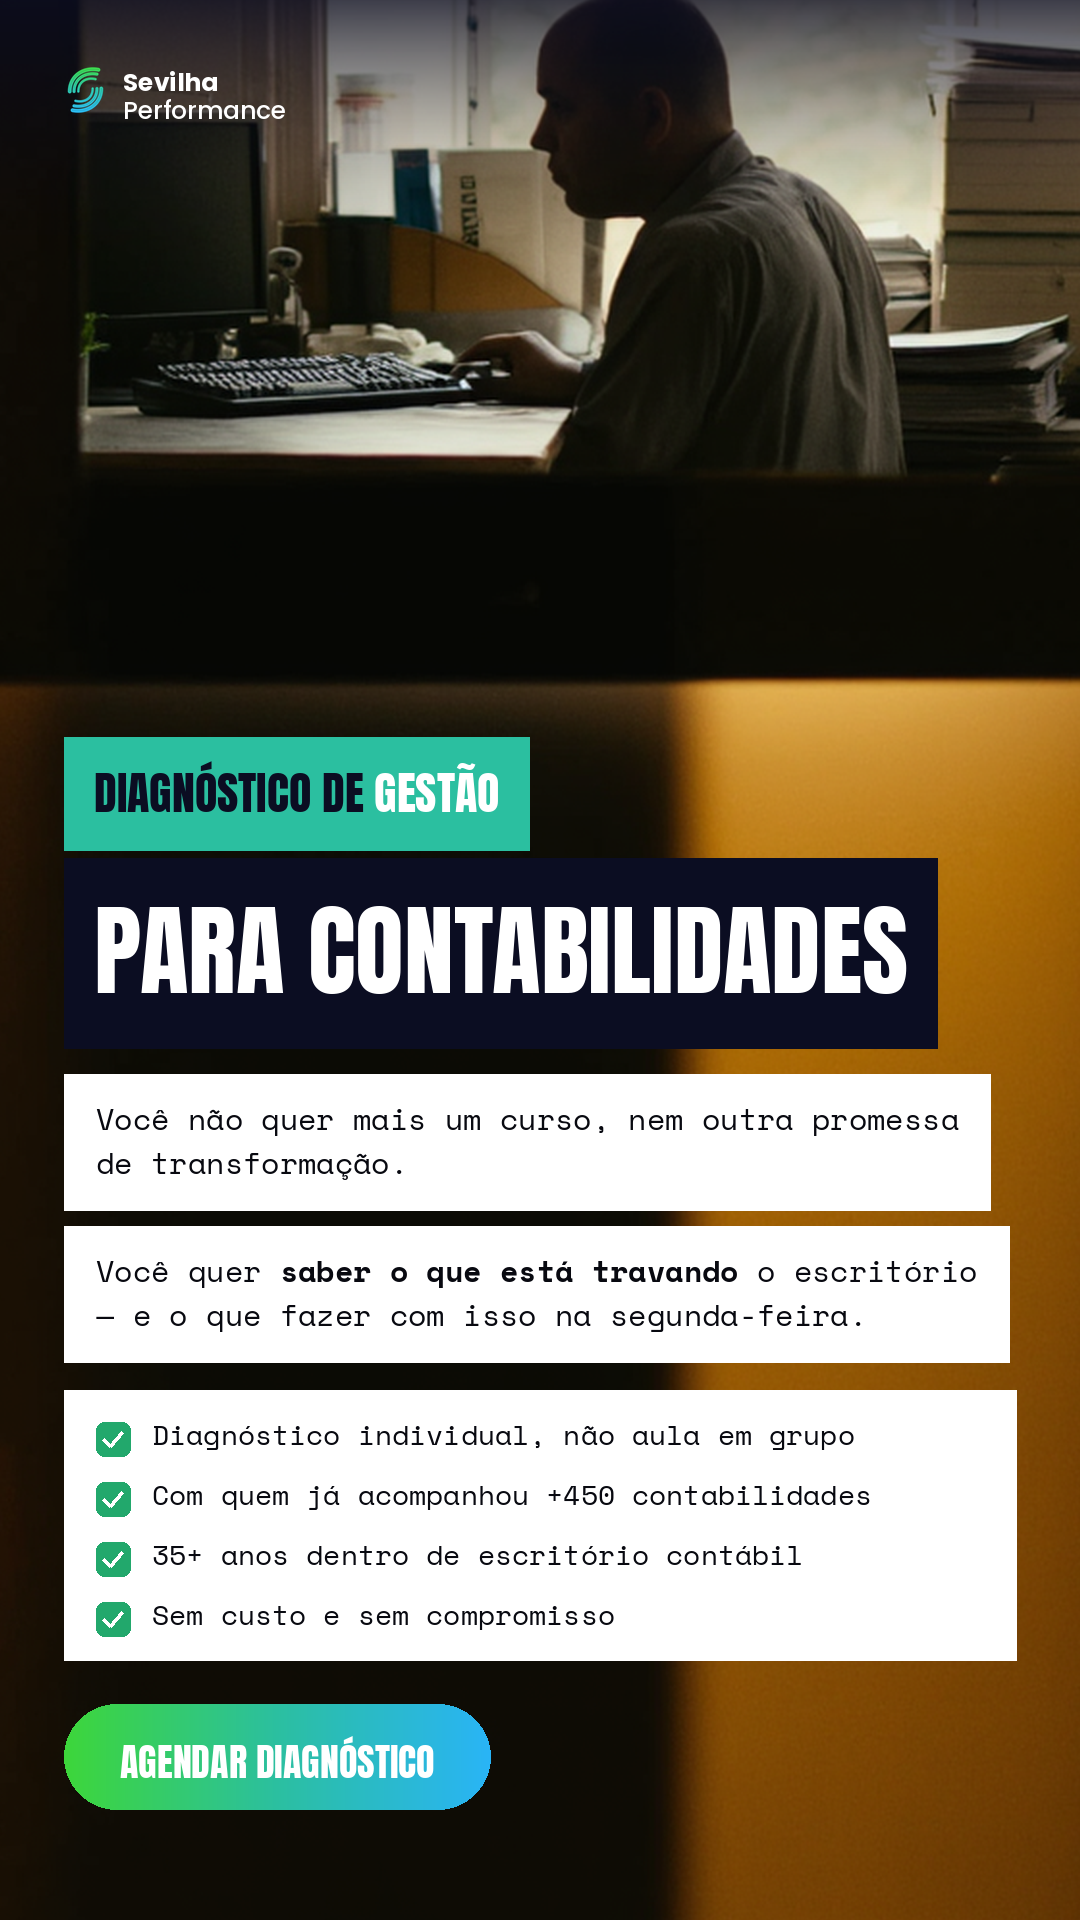
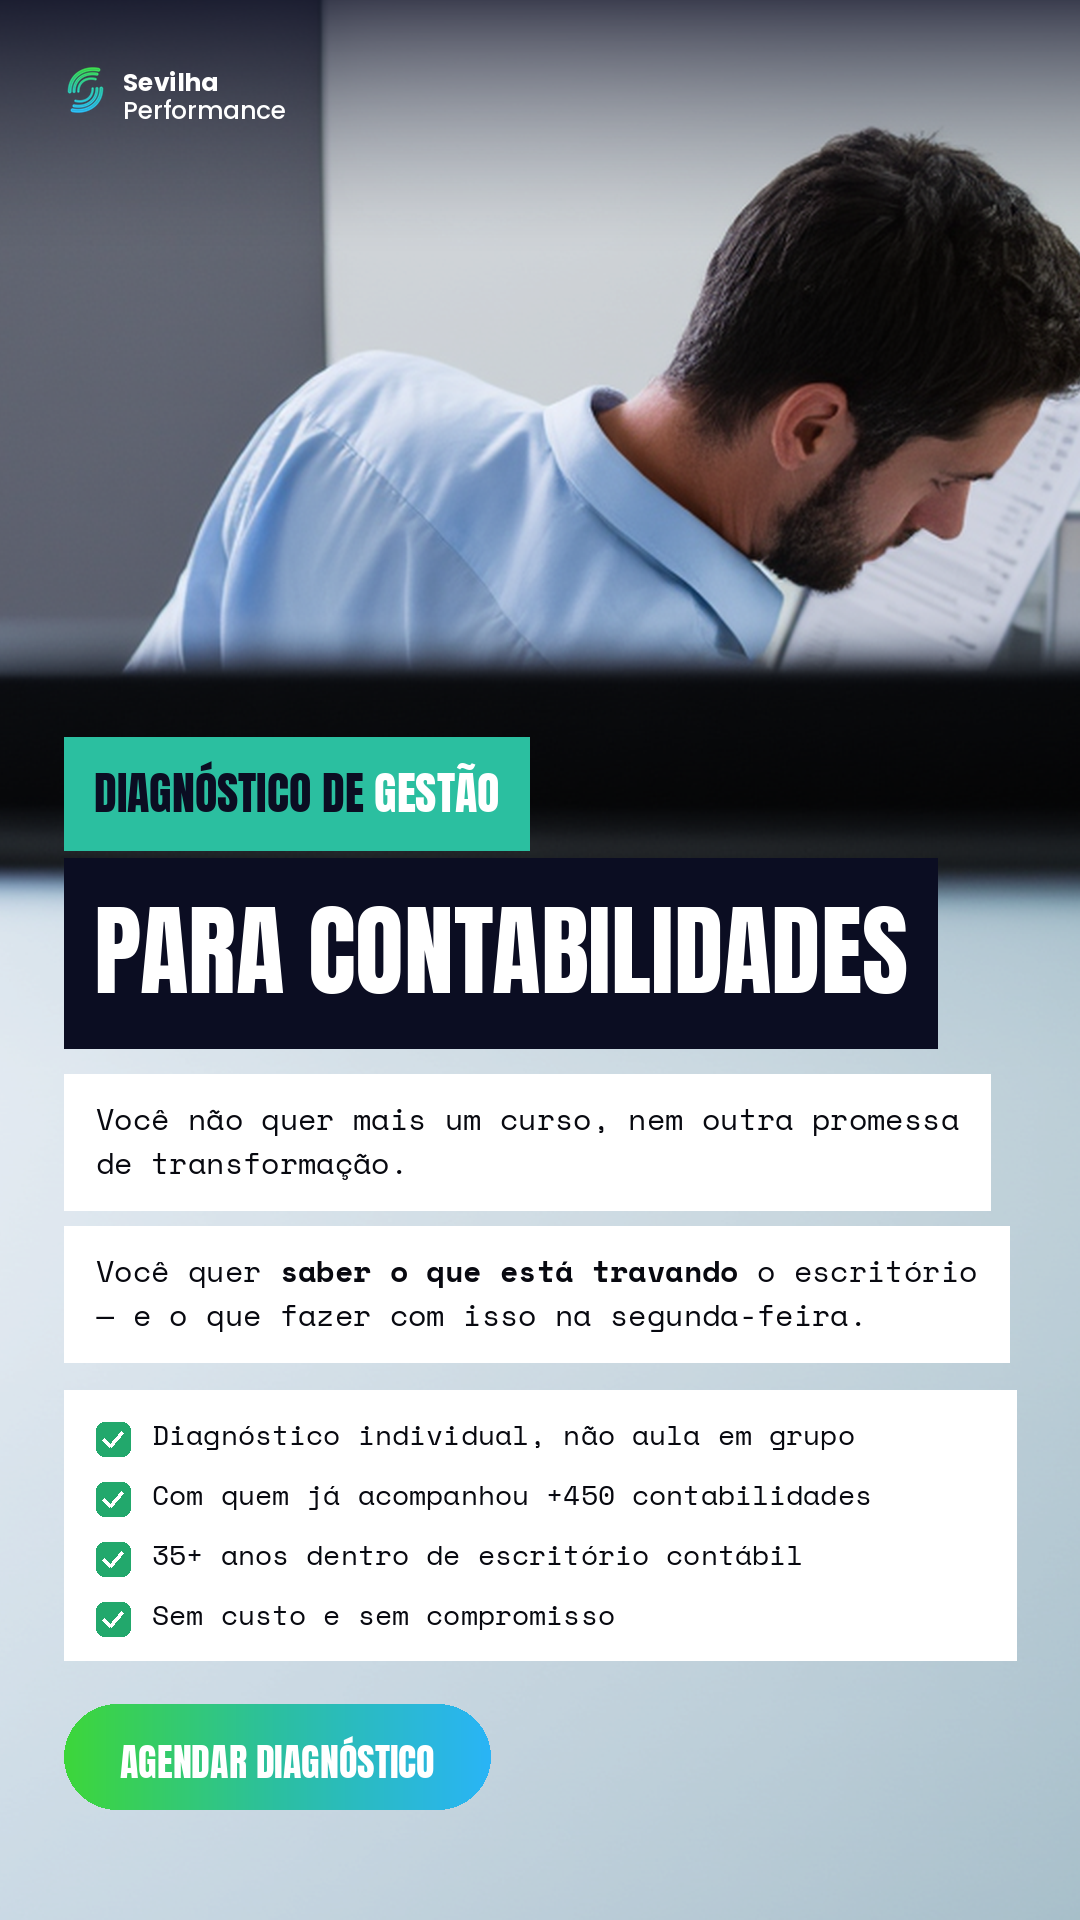
Refaz o plate do conceito 12: a foto de cima não segurava
A pilha de blocos ocupa os dois terços de baixo, então só o terço de cima da
foto aparece — e era justamente o pedaço pior do plate anterior: assunto escuro,
batente de porta cortando o quadro e um borrão âmbar no lugar do respiro.

Duas regras saíram daí, e valem para qualquer plate deste layout:

Fundo claro embaixo, não penumbra. O prompt anterior pedia "the lower two thirds
an uncluttered dimmer area". Não adianta reservar espaço escuro — o espaço já vai
ser coberto pelos blocos. O que serve ali é fundo claro e liso.

Nada na frente do assunto. "Seen from a three-quarter rear angle" numa sala
pequena fez o modelo enfiar batente de porta e móvel no primeiro plano.

As duas entraram na descrição do layout em LAYOUTS, para o gerador escrever o
prompt de plate já com elas, e o padrão de âncora do serviço subiu de 0.28 para
0.08 — o Kling entrega o assunto no meio do quadro se ninguém pedir o contrário.

Claude-Session: https://claude.ai/code/session_01RyMhWZjS6JzrucoHXrbyNV

diff --git a/api/compor.py b/api/compor.py
@@ -156,9 +156,10 @@ def montar(corpo):
             conceito.setdefault("formato", "9:16")
             conceito.setdefault("cta", "AGENDAR DIAGNÓSTICO")
             # A pilha come os dois terços de baixo; sem zoom o assunto da foto
-            # fica pequeno demais na faixa que sobra.
-            conceito.setdefault("zoom", 1.3)
-            conceito.setdefault("anchor_y", 0.28)
+            # fica pequeno demais na faixa que sobra, e sem subir a âncora o
+            # Kling entrega o assunto no meio do quadro, bem onde os blocos vão.
+            conceito.setdefault("zoom", 1.4)
+            conceito.setdefault("anchor_y", 0.08)
             return layouts.blocos(conceito, plate)
 
         formato = corpo.get("formato", "4:5")

diff --git a/criativos/sessao-estrategica/compor.py b/criativos/sessao-estrategica/compor.py
@@ -130,7 +130,9 @@ LAYOUTS = {
     "oferta": "foto em quadro cheio, tarja de público e valor em destaque — 9:16",
     "antes-depois": "duas colunas comparando, sem foto — 4:5",
     "blocos": "blocos opacos empilhados sobre a foto, corpo em monoespaçada e "
-              "checklist de entregáveis — 9:16",
+              "checklist de entregáveis — 9:16. O plate precisa do assunto no "
+              "terço de cima, fundo claro e liso embaixo (é onde os blocos "
+              "entram) e nada na frente do assunto",
     "nativo": "UI de app recriada (notas, whatsapp, lockscreen, busca) — 4:5",
 }
 

diff --git a/criativos/sessao-estrategica/oferta.py b/criativos/sessao-estrategica/oferta.py
@@ -98,7 +98,7 @@ PECAS = {
     "blocos": {
         "layout": "blocos",
         "formato": "9:16",
-        "zoom": 1.35, "anchor_y": 0.30,
+        "zoom": 1.45, "anchor_x": 0.55, "anchor_y": 0.06,
         "topo": "DIAGNÓSTICO DE **GESTÃO**",
         "chamada": "PARA CONTABILIDADES",
         "corpo": [

diff --git a/criativos/sessao-estrategica/PROMPT-KLING.md b/criativos/sessao-estrategica/PROMPT-KLING.md
@@ -730,3 +730,20 @@ ocupa os dois terços de baixo. `zoom` e `anchor_y` são campos da peça.
 - Principal: `Dez, quinze, vinte pessoas na equipe, e nenhuma decisão anda sem passar na sua mesa. O gargalo deixou de ser o time.` (116)
 - Título: `Mais de 10 colaboradores` (24)
 - Descrição: `Diagnóstico gratuito` (20)
+
+## O plate deste layout tem duas regras próprias
+
+Descobertas queimando um plate. A pilha de blocos ocupa os dois terços de baixo,
+então só o terço de cima da foto aparece — e é ali que o assunto tem que estar.
+
+**Fundo claro embaixo, não penumbra.** O primeiro plate pediu "the lower two
+thirds an uncluttered dimmer area" e voltou um borrão âmbar escuro. Não adianta
+reservar espaço escuro: o espaço já vai ser coberto. O que serve é fundo claro e
+liso, que dá respiro entre a foto e o primeiro bloco.
+
+**Nada na frente do assunto.** "Seen from a three-quarter rear angle" numa sala
+pequena fez o modelo enfiar batente de porta e móvel no primeiro plano.
+`nothing obstructing the foreground` resolve.
+
+As duas regras estão na descrição do layout em `LAYOUTS`, no `compor.py`, para o
+gerador escrever o prompt de plate já com elas.
